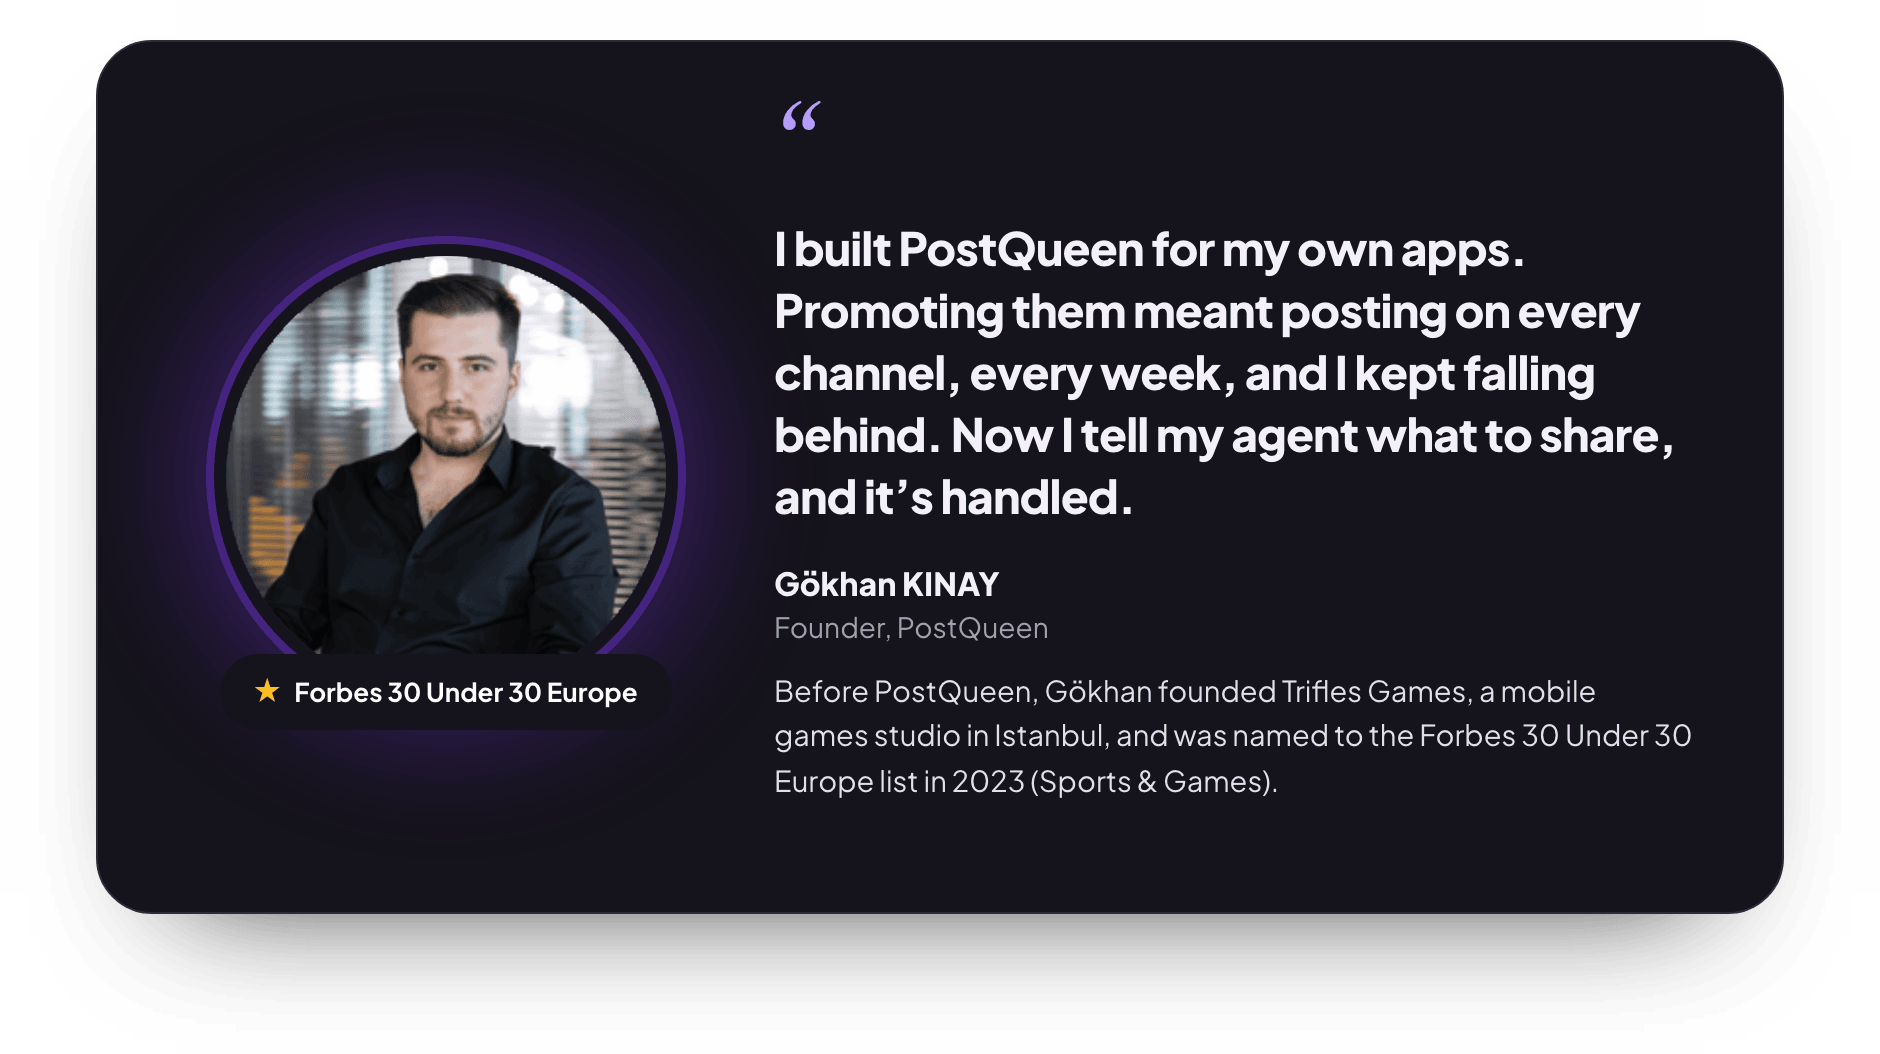
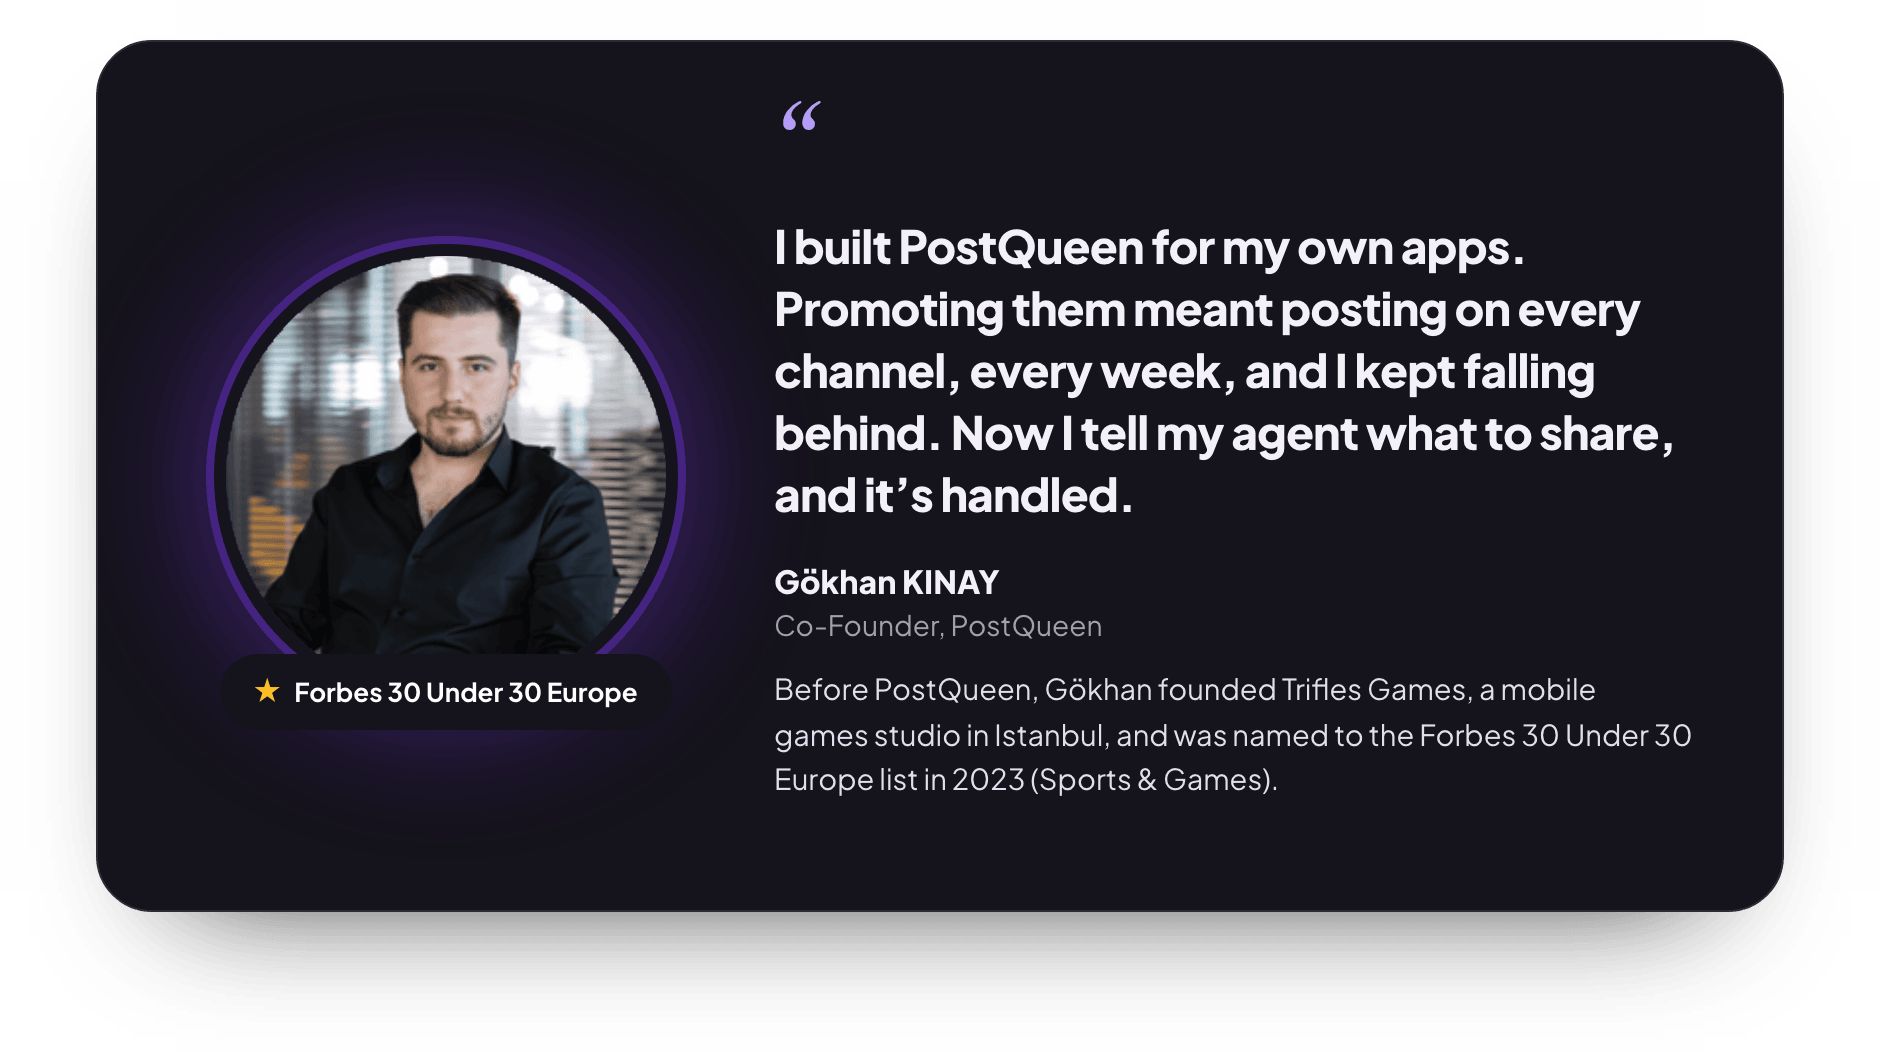
Credit Forcegames OÜ and both co-founders in the README.
PostQueen moved from Forceplay OÜ to Forcegames OÜ. Gökhan KINAY is now a
co-founder, with Aslıhan KINAY. The founder card images say "Co-Founder,
PostQueen" and the alt texts and the closing line follow.

diff --git a/README.md b/README.md
@@ -42,7 +42,7 @@
   <a href="LICENSE"><img src="https://img.shields.io/badge/license-AGPL--3.0-2563EB?labelColor=15131C" alt="License: AGPL-3.0"></a>
   <a href="https://www.npmjs.com/package/postqueen"><img src="https://img.shields.io/npm/v/postqueen?label=CLI&color=CB3837&labelColor=15131C&logo=npm&logoColor=white" alt="postqueen CLI on npm"></a>
   <a href="https://www.npmjs.com/package/n8n-nodes-postqueen"><img src="https://img.shields.io/npm/v/n8n-nodes-postqueen?label=n8n%20node&color=EA4B71&labelColor=15131C&logo=n8n&logoColor=white" alt="n8n node on npm"></a>
-  <a href="https://www.forbes.com/profile/gokhan-kinay/"><img src="https://img.shields.io/badge/Forbes-30%20Under%2030%20Europe-C9A227?labelColor=15131C" alt="Founder: Forbes 30 Under 30 Europe"></a>
+  <a href="https://www.forbes.com/profile/gokhan-kinay/"><img src="https://img.shields.io/badge/Forbes-30%20Under%2030%20Europe-C9A227?labelColor=15131C" alt="Co-Founder: Forbes 30 Under 30 Europe"></a>
 </p>
 
 <p align="center">
@@ -228,10 +228,10 @@ curl https://api.postqueen.ai/public/v1/integrations -H "Authorization: YOUR_API
 ## Built by
 
 <p align="center">
-  <a href="https://www.forbes.com/profile/gokhan-kinay/"><picture><source media="(prefers-color-scheme: dark)" srcset=".github/assets/showcase/founder-dark.png"><img src=".github/assets/showcase/founder-light.png" width="100%" alt="Gökhan KINAY, founder of PostQueen and Forbes 30 Under 30 Europe (2023, Sports & Games): I built PostQueen for my own apps. Promoting them meant posting on every channel, every week, and I kept falling behind. Now I tell my agent what to share, and it is handled."></picture></a>
+  <a href="https://www.forbes.com/profile/gokhan-kinay/"><picture><source media="(prefers-color-scheme: dark)" srcset=".github/assets/showcase/founder-dark.png"><img src=".github/assets/showcase/founder-light.png" width="100%" alt="Gökhan KINAY, co-founder of PostQueen and Forbes 30 Under 30 Europe (2023, Sports & Games): I built PostQueen for my own apps. Promoting them meant posting on every channel, every week, and I kept falling behind. Now I tell my agent what to share, and it is handled."></picture></a>
 </p>
 
-PostQueen is made by Forceplay OÜ, a software company in Tallinn, Estonia.
+PostQueen is made by Forcegames OÜ, a software company in Tallinn, Estonia, co-founded by Gökhan KINAY and Aslıhan KINAY.
 
 <p align="center">
   <a href="https://app.postqueen.ai/auth?utm_source=github&utm_medium=readme&utm_campaign=postqueen-app&utm_content=closing-band"><picture><source media="(prefers-color-scheme: dark)" srcset=".github/assets/showcase/cta-dark.png"><img src=".github/assets/showcase/cta-light.png" width="100%" alt="Ready when you are: hand your next post to your agent. Start 7-day trial for $0. $0 due today, cancel in one click."></picture></a>
